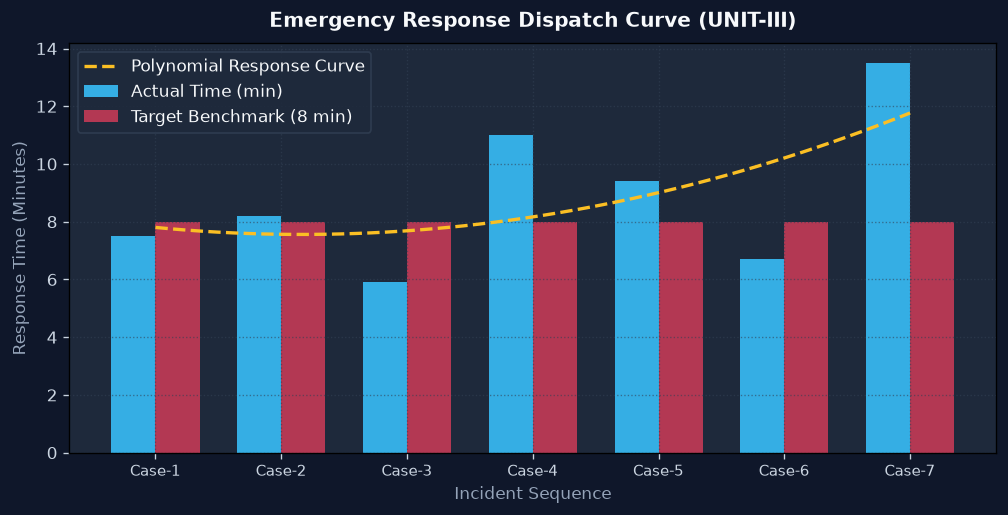
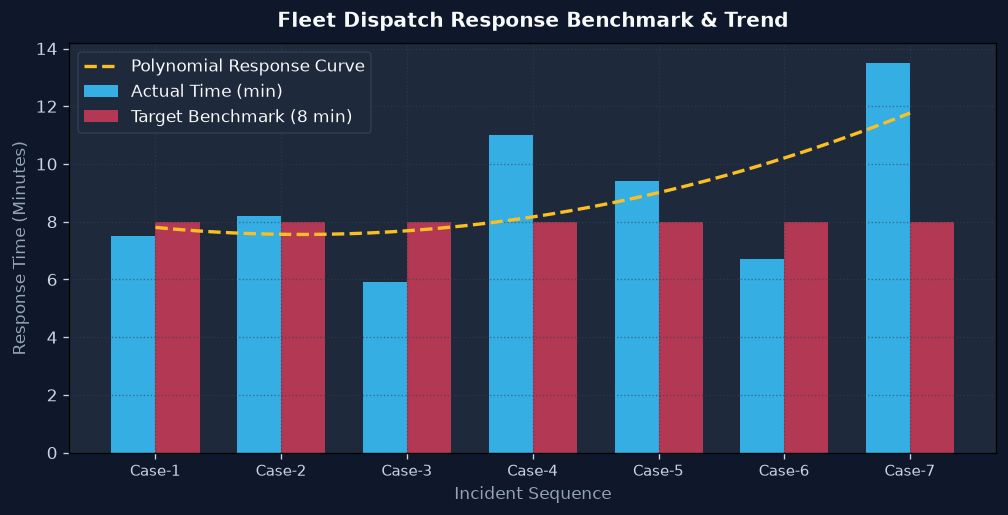
Refactor: Decouple web frontend, clean dashboard titles, and modularize Python codebase

Changed region(s): [[0.246, 0.0, 0.7996, 0.0621]]

diff --git a/web/index.html b/web/index.html
@@ -157,7 +157,7 @@
             <div class="brand-icon">🚨</div>
             <div class="brand-title">
                 <h1>Emergency Route & Help Coordinator</h1>
-                <p>Indus University Python Course Project (PSC)</p>
+                <p>City-Wide Emergency Dispatch & Route Intelligence</p>
             </div>
         </div>
         <div class="header-badges">
@@ -178,7 +178,7 @@
                         <input type="text" id="callerName" value="Rahul Sharma" required placeholder="e.g. Rahul Sharma">
                     </div>
                     <div class="form-group">
-                        <label>10-Digit Contact Phone (Regex: ^[6-9]\d{9}$)</label>
+                        <label>Contact Phone (10 Digits)</label>
                         <input type="tel" id="callerPhone" value="9876543210" required placeholder="e.g. 9876543210">
                     </div>
                     <div class="form-group">
@@ -200,7 +200,7 @@
             </div>
 
             <div class="panel">
-                <h2>📊 NumPy Analytics (Unit-III)</h2>
+                <h2>📊 Fleet Response Analytics</h2>
                 <div class="status-grid">
                     <div class="stat-card">
                         <div class="val" id="statMean">--</div>
@@ -242,7 +242,7 @@
             <div class="bottom-grid">
                 <!-- Stored Incident Logs -->
                 <div class="panel">
-                    <h2>📁 Incident Logs (UNIT-I: Text File Storage)</h2>
+                    <h2>📁 Live Incident Logs</h2>
                     <div style="max-height: 260px; overflow-y: auto;">
                         <table class="logs-table">
                             <thead>
@@ -262,7 +262,7 @@
 
                 <!-- Matplotlib Trend Curve -->
                 <div class="panel">
-                    <h2>📈 Matplotlib Response Curve (UNIT-III)</h2>
+                    <h2>📈 Dispatch Response & Efficiency Benchmark</h2>
                     <div class="chart-container">
                         <img id="trendImg" src="/data/performance_curve.png" class="chart-img" alt="Matplotlib Polynomial Trend">
                     </div>

diff --git a/core/visualizer.py b/core/visualizer.py
@@ -76,7 +76,7 @@ def render_trend_curve(response_times: list, save_file: str = "data/performance_
     smooth_y = np.polyval(polynomial_weights, smooth_x)
     ax.plot(smooth_x, smooth_y, color='#fbbf24', linestyle='--', linewidth=2, label='Polynomial Response Curve')
 
-    ax.set_title("Emergency Response Dispatch Curve (UNIT-III)", color="#f8fafc", fontsize=12, fontweight='bold', pad=10)
+    ax.set_title("Fleet Dispatch Response Benchmark & Trend", color="#f8fafc", fontsize=12, fontweight='bold', pad=10)
     ax.set_xlabel("Incident Sequence", color="#94a3b8", fontsize=10)
     ax.set_ylabel("Response Time (Minutes)", color="#94a3b8", fontsize=10)
     ax.set_xticks(x_indices)
